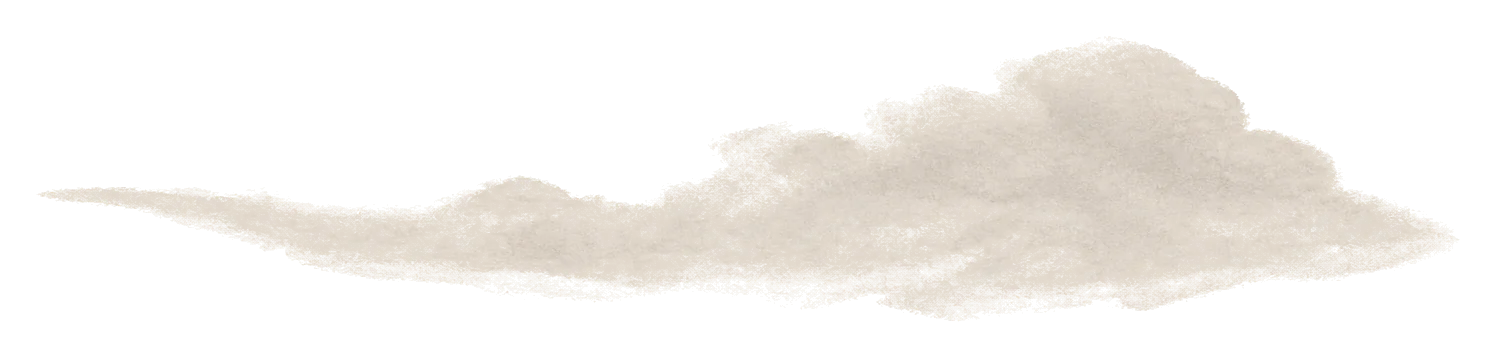
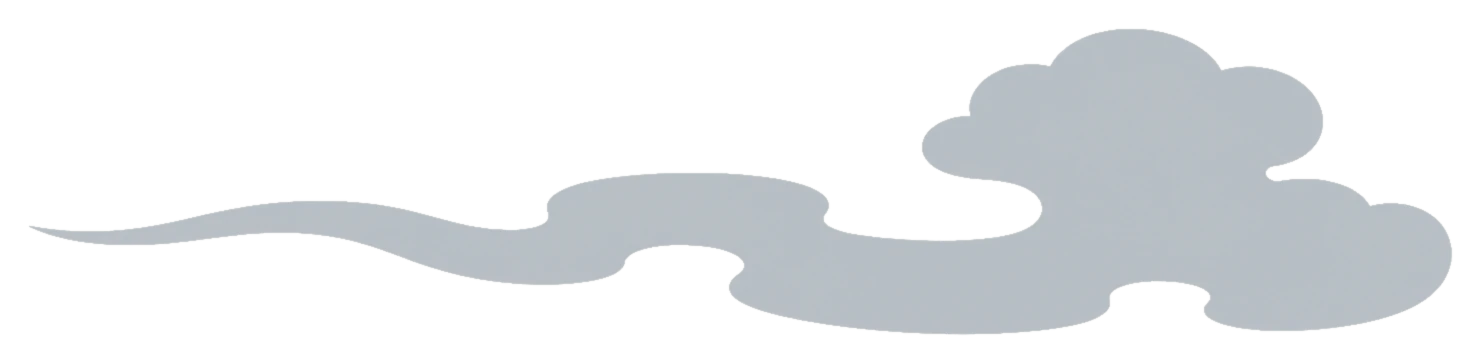
The cloud is ink, not dirt.
Cool gray kumo, authored edge. Blur and multiply are off —
those were the brown smudge.

diff --git a/mockupc/index.html b/mockupc/index.html
@@ -25,7 +25,7 @@
   <link rel="preconnect" href="https://fonts.googleapis.com">
   <link rel="preconnect" href="https://fonts.gstatic.com" crossorigin>
   <link href="https://fonts.googleapis.com/css2?family=Fraunces:opsz,wght@9..144,300;9..144,380;9..144,460;9..144,560&family=JetBrains+Mono:wght@400;500;600&display=swap" rel="stylesheet">
-  <link rel="stylesheet" href="/mockupc/home.css?v=snap44">
+  <link rel="stylesheet" href="/mockupc/home.css?v=snap45">
 </head>
 <body>
   <a class="skip" href="#begin">Begin</a>
@@ -140,7 +140,7 @@
           <img src="/media/dragon-tail.webp?v=rd36" alt="" width="1024" height="1536" decoding="async" loading="lazy" fetchpriority="low">
         </div>
         <div class="weather-cloud" aria-hidden="true">
-          <img src="/media/cloud-ribbon.webp?v=rd44" alt="" width="1494" height="357" decoding="async" loading="lazy" fetchpriority="low">
+          <img src="/media/cloud-ribbon.webp?v=rd45" alt="" width="1480" height="363" decoding="async" loading="lazy" fetchpriority="low">
         </div>
         <div class="plate-inner instrument-in">
           <p class="plate-index">03 / THE INSTRUMENT</p>
@@ -309,6 +309,6 @@
   </form>
   <input type="file" id="pick" accept="video/*" hidden>
 
-  <script src="/mockupc/home.js?v=snap44"></script>
+  <script src="/mockupc/home.js?v=snap45"></script>
 </body>
 </html>

diff --git a/index.html b/index.html
@@ -24,7 +24,7 @@
   <link rel="preconnect" href="https://fonts.googleapis.com">
   <link rel="preconnect" href="https://fonts.gstatic.com" crossorigin>
   <link href="https://fonts.googleapis.com/css2?family=Fraunces:opsz,wght@9..144,300;9..144,380;9..144,460;9..144,560&family=JetBrains+Mono:wght@400;500;600&display=swap" rel="stylesheet">
-  <link rel="stylesheet" href="/home.css?v=rd44">
+  <link rel="stylesheet" href="/home.css?v=rd45">
 </head>
 <body>
   <a class="skip" href="#begin">Begin</a>
@@ -139,7 +139,7 @@
           <img src="/media/dragon-tail.webp?v=rd36" alt="" width="1024" height="1536" decoding="async" loading="lazy" fetchpriority="low">
         </div>
         <div class="weather-cloud" aria-hidden="true">
-          <img src="/media/cloud-ribbon.webp?v=rd44" alt="" width="1494" height="357" decoding="async" loading="lazy" fetchpriority="low">
+          <img src="/media/cloud-ribbon.webp?v=rd45" alt="" width="1480" height="363" decoding="async" loading="lazy" fetchpriority="low">
         </div>
         <div class="plate-inner instrument-in">
           <p class="plate-index">03 / THE INSTRUMENT</p>
@@ -308,6 +308,6 @@
   </form>
   <input type="file" id="pick" accept="video/*" hidden>
 
-  <script src="/home.js?v=rd44"></script>
+  <script src="/home.js?v=rd45"></script>
 </body>
 </html>

diff --git a/home.css b/home.css
@@ -344,14 +344,12 @@ body.asking .bar .back{opacity:1;pointer-events:auto}
   from{transform:translate3d(0,0,0) rotate(0deg)}
   to{transform:translate3d(-8px,-10px,0) rotate(-.6deg)}
 }
-/* one veil. mediates empty field and dragon. not a cloud graphic.
-   source is readable; the page pushes it back down. */
+/* one cloud. Japanese ink form, not a wash. Cool gray, authored edge.
+   No blur, no multiply — those turned it into a brown smudge. */
 .weather-cloud{
   position:absolute;right:-8%;bottom:12%;z-index:2;
   width:min(92vw,540px);pointer-events:none;
-  opacity:calc(var(--paper-enter,0) * .22);
-  filter:blur(5px);
-  mix-blend-mode:multiply;
+  opacity:calc(var(--paper-enter,0) * .42);
   transform:translate3d(calc(16px * (1 - var(--paper-enter,0))),calc(8px * (1 - var(--paper-enter,0))),0);
 }
 .weather-cloud img{

diff --git a/mockupc/home.css b/mockupc/home.css
@@ -344,14 +344,12 @@ body.asking .bar .back{opacity:1;pointer-events:auto}
   from{transform:translate3d(0,0,0) rotate(0deg)}
   to{transform:translate3d(-8px,-10px,0) rotate(-.6deg)}
 }
-/* one veil. mediates empty field and dragon. not a cloud graphic.
-   source is readable; the page pushes it back down. */
+/* one cloud. Japanese ink form, not a wash. Cool gray, authored edge.
+   No blur, no multiply — those turned it into a brown smudge. */
 .weather-cloud{
   position:absolute;right:-8%;bottom:12%;z-index:2;
   width:min(92vw,540px);pointer-events:none;
-  opacity:calc(var(--paper-enter,0) * .22);
-  filter:blur(5px);
-  mix-blend-mode:multiply;
+  opacity:calc(var(--paper-enter,0) * .42);
   transform:translate3d(calc(16px * (1 - var(--paper-enter,0))),calc(8px * (1 - var(--paper-enter,0))),0);
 }
 .weather-cloud img{

diff --git a/docs/claude-handoff/SURFACE-AND-WEATHER.md b/docs/claude-handoff/SURFACE-AND-WEATHER.md
@@ -45,8 +45,9 @@ On the app, later: the same crop, primarily in the unused lower field. It may sh
 A picture. Not a forecast. Independent of the tail.
 
 - Own `<img>` layer (`.weather-cloud`). Never baked into the dragon file.
-- **One** on the plate: the ribbon veil (`/media/cloud-ribbon.webp`). Family also has `cloud-bridge` and `cloud-bank` — not on the page.
-- Warm gray parchment, not white. Source is ~35–45% readable. The page displays it at ~22% with a 5px blur and `multiply`, so it reads as atmosphere, not a cloud graphic.
+- **One** on the plate: the ribbon (`/media/cloud-ribbon.webp`). A cool gray kumo — Japanese ink silhouette, not a watercolor smear. Family also has `cloud-bridge` and `cloud-bank` — not on the page.
+- Cool stone gray, not brown, not white. Authored edge. No page blur, no `multiply` — those turned the last pass into a dirt smudge.
+- Displayed at ~.42 so the form reads and the paper still shows through.
 - Sits slightly right, in the lower field. Its job is to mediate empty field and dragon — not to fill the center-left.
 - Mass on the right (kisses the dragon’s visible edge). Taper to the left. One softer trailing lobe.
 - Does not cover the disc. Does not compete with Begin. Does not occupy the extreme bottom-right corner — that still belongs to the tail.
@@ -61,7 +62,7 @@ Do not. Sun, field, weather works because nothing labels it.
 
 ## Site lock (now)
 
-Live on `/` (`rd44`) and `/mockupc` (`snap44`). Spec: `INSTRUMENT-PLATE.md`.
+Live on `/` (`rd45`) and `/mockupc` (`snap45`). Spec: `INSTRUMENT-PLATE.md`.
 
 - Art: `/media/dragon-tail.webp` (not the PNG; do not preload it against the films)
 - Markup: `.dragon-tail > img` and `.weather-cloud > img` inside `.plate-instrument`
@@ -76,7 +77,7 @@ Live on `/` (`rd44`) and `/mockupc` (`snap44`). Spec: `INSTRUMENT-PLATE.md`.
 
 **Weather dissolves the way weather dissolves.** The mask sits on `.dragon-tail`, not on the file. Corner holds. The edge facing the room falls into paper. The image drifts through that veil. Do not blur, wash, or blend the art to get this — the falloff is the atmosphere.
 
-**One cloud, as a picture.** The ribbon is the source; the page makes it quiet. Shifted right so it mediates dragon and empty field. Not more visible — more elegant. Then stop.
+**One cloud, as a picture.** Cool gray kumo. Authored edge. No blur, no multiply. Shifted right so it mediates dragon and empty field. Then stop.
 
 **Weather moves the way weather moves.** `weatherDrift`: 54s, ease-in-out, alternating, −8px / −10px and −0.6°, origin 80% 80%. Slow enough that you never catch it moving, only notice that it has. Anything faster is animation, and animation is a performance.
 
@@ -91,6 +92,7 @@ When it is: one crop, unused field, behind chrome if needed, never over Today’
 - A dragon head, eyes, claws, or a full beast
 - Recolor, desaturate, or drop opacity until it is a stain
 - Blur or blend the dragon file to fake atmosphere — the mask is the veil
+- Blur or `multiply` the cloud — that is how it became a brown smudge
 - Pattern fills, chapter marks, or catalog chrome from the art-book references
 - A second horizontal axis of art across 01 and 02
 - Social, engagement, or “something to look at” as a product

diff --git a/docs/claude-handoff/INSTRUMENT-PLATE.md b/docs/claude-handoff/INSTRUMENT-PLATE.md
@@ -16,7 +16,7 @@ BEGIN               persists. Still opens at question one.
 
 01 + first thesis + Begin is still complete.
 
-Cache: `/` `rd44`. `/mockupc` `snap44`.
+Cache: `/` `rd45`. `/mockupc` `snap45`.
 
 ## Why light
 
@@ -39,7 +39,7 @@ Depth is by focus, not by blurring the page. The instrument dissolves into the p
 - Cycle: 7s hold. Outgoing session 0.5s. Incoming starts at 0.45s and takes 0.95s. Same 1.4s total; never both legible. The session does not travel. The disc names the day.
 - Parallax capped at 8px.
 - Headline only. The paragraph was the instrument's job written out in words.
-- Atmosphere: cropped dragon as weather in the bottom-right. `min(86vw, 560px)` at right −14% / bottom −6%, image offset 2/2%, opacity `.92`. Desktop `clamp(420px, 44vw, 660px)`, right −2% / bottom −4%. A radial mask on the container (not the file) holds the corner and dissolves toward the room. One ribbon cloud mediates the empty field and the dragon — rightward, quiet, `multiply` at .22. See `SURFACE-AND-WEATHER.md`.
+- Atmosphere: cropped dragon as weather in the bottom-right. `min(86vw, 560px)` at right −14% / bottom −6%, image offset 2/2%, opacity `.92`. Desktop `clamp(420px, 44vw, 660px)`, right −2% / bottom −4%. A radial mask on the container (not the file) holds the corner and dissolves toward the room. One cool-gray kumo mediates the empty field and the dragon — rightward, authored edge, no blur, no multiply. See `SURFACE-AND-WEATHER.md`.
 
 On a 375×667 phone the disc and the eyebrow land close. The air belongs between the instrument and FORM, then between the instrument and the copy. Dial centre is `35svh + 14px`.
 

diff --git a/docs/track-c-handoff/ROADMAP.md b/docs/track-c-handoff/ROADMAP.md
@@ -30,7 +30,7 @@ Last updated: 19 Aug 2026.
 - `[—]` **B2 · The race line under the disc.** Built, then parked. It read as a weird underline on the sun. Do not put it back unless asked. *19 Aug*
 - `[x]` B3 · The W1 margin tab, the ivory placard, the tell. *19 Aug*
 - `[x]` B4 · Intake: success gating, mailto fallback, receipt-scale review, text-size-adjust. *19 Aug*
-- `[~]` **B5 · Dragon / weather.** Crop raised, right edge in, atmosphere mask, one ribbon cloud at `.22` multiply. Still not “there” as weather. Next lever is crop and quiet, not size, not a second cloud. *19 Aug*
+- `[~]` **B5 · Dragon / weather.** Crop raised, atmosphere mask, one cool-gray kumo (no blur, no multiply — the wash read as dirt). Still not “there” as weather. Next lever is crop and quiet, not size, not a second cloud. *19 Aug*
 - `[ ]` **B6 · Thin lines are on notice.** A hairline must carry meaning at a glance or it is noise. Where a divider is only separating things, use space.
 - `[ ]` B7 · Record the plate, portrait, one full cycle, for Instagram — after 38 is approved.
 - `[ ]` B8 · Decide whether `/notes` should be reachable. Currently orphaned by design.

diff --git a/docs/CURSOR_CONTEXT.md b/docs/CURSOR_CONTEXT.md
@@ -38,7 +38,7 @@ When both **`speedandform`** and **`FORM-iOS`** roots are in the workspace, trea
 
 _Update this line when your sprint changes._
 
-- Homepage `/` and `/mockupc` match (`rd44` / `snap44`): W1 tab, tell, weather drift, one ribbon cloud. Race line parked. Live `/` is this plate. Specs: `docs/claude-handoff/INSTRUMENT-PLATE.md`, `SURFACE-AND-WEATHER.md`. Receipt + Zelle: `AFTER-SEND.md`.
+- Homepage `/` and `/mockupc` match (`rd45` / `snap45`): W1 tab, tell, weather drift, one kumo cloud. Race line parked. Live `/` is this plate. Specs: `docs/claude-handoff/INSTRUMENT-PLATE.md`, `SURFACE-AND-WEATHER.md`. Receipt + Zelle: `AFTER-SEND.md`.
 - **Track C (app Today):** Codex implements from `docs/track-c-handoff/`. The site is the look; the app is the action. Do not port site philosophy copy onto Today.
 - Next is not more chrome. Athletes, then the Field (weather around a still-bare instrument), then paywall — when that is the task.
 

diff --git a/docs/claude-handoff/REACHABLE.md b/docs/claude-handoff/REACHABLE.md
@@ -4,7 +4,7 @@ Open in Chrome. Phone is the real test.
 
 Live: https://speedandform.com/ · twin: https://speedandform.com/mockupc
 
-`/` and `/mockupc` match (`rd44` / `snap44`) — W1 tab, tell, weather drift, one ribbon cloud. No race line. The instrument steps aside. Live `/` is this plate.
+`/` and `/mockupc` match (`rd45` / `snap45`) — W1 tab, tell, weather drift, one kumo cloud. No race line. The instrument steps aside. Live `/` is this plate.
 
 ## `/` — production
 
